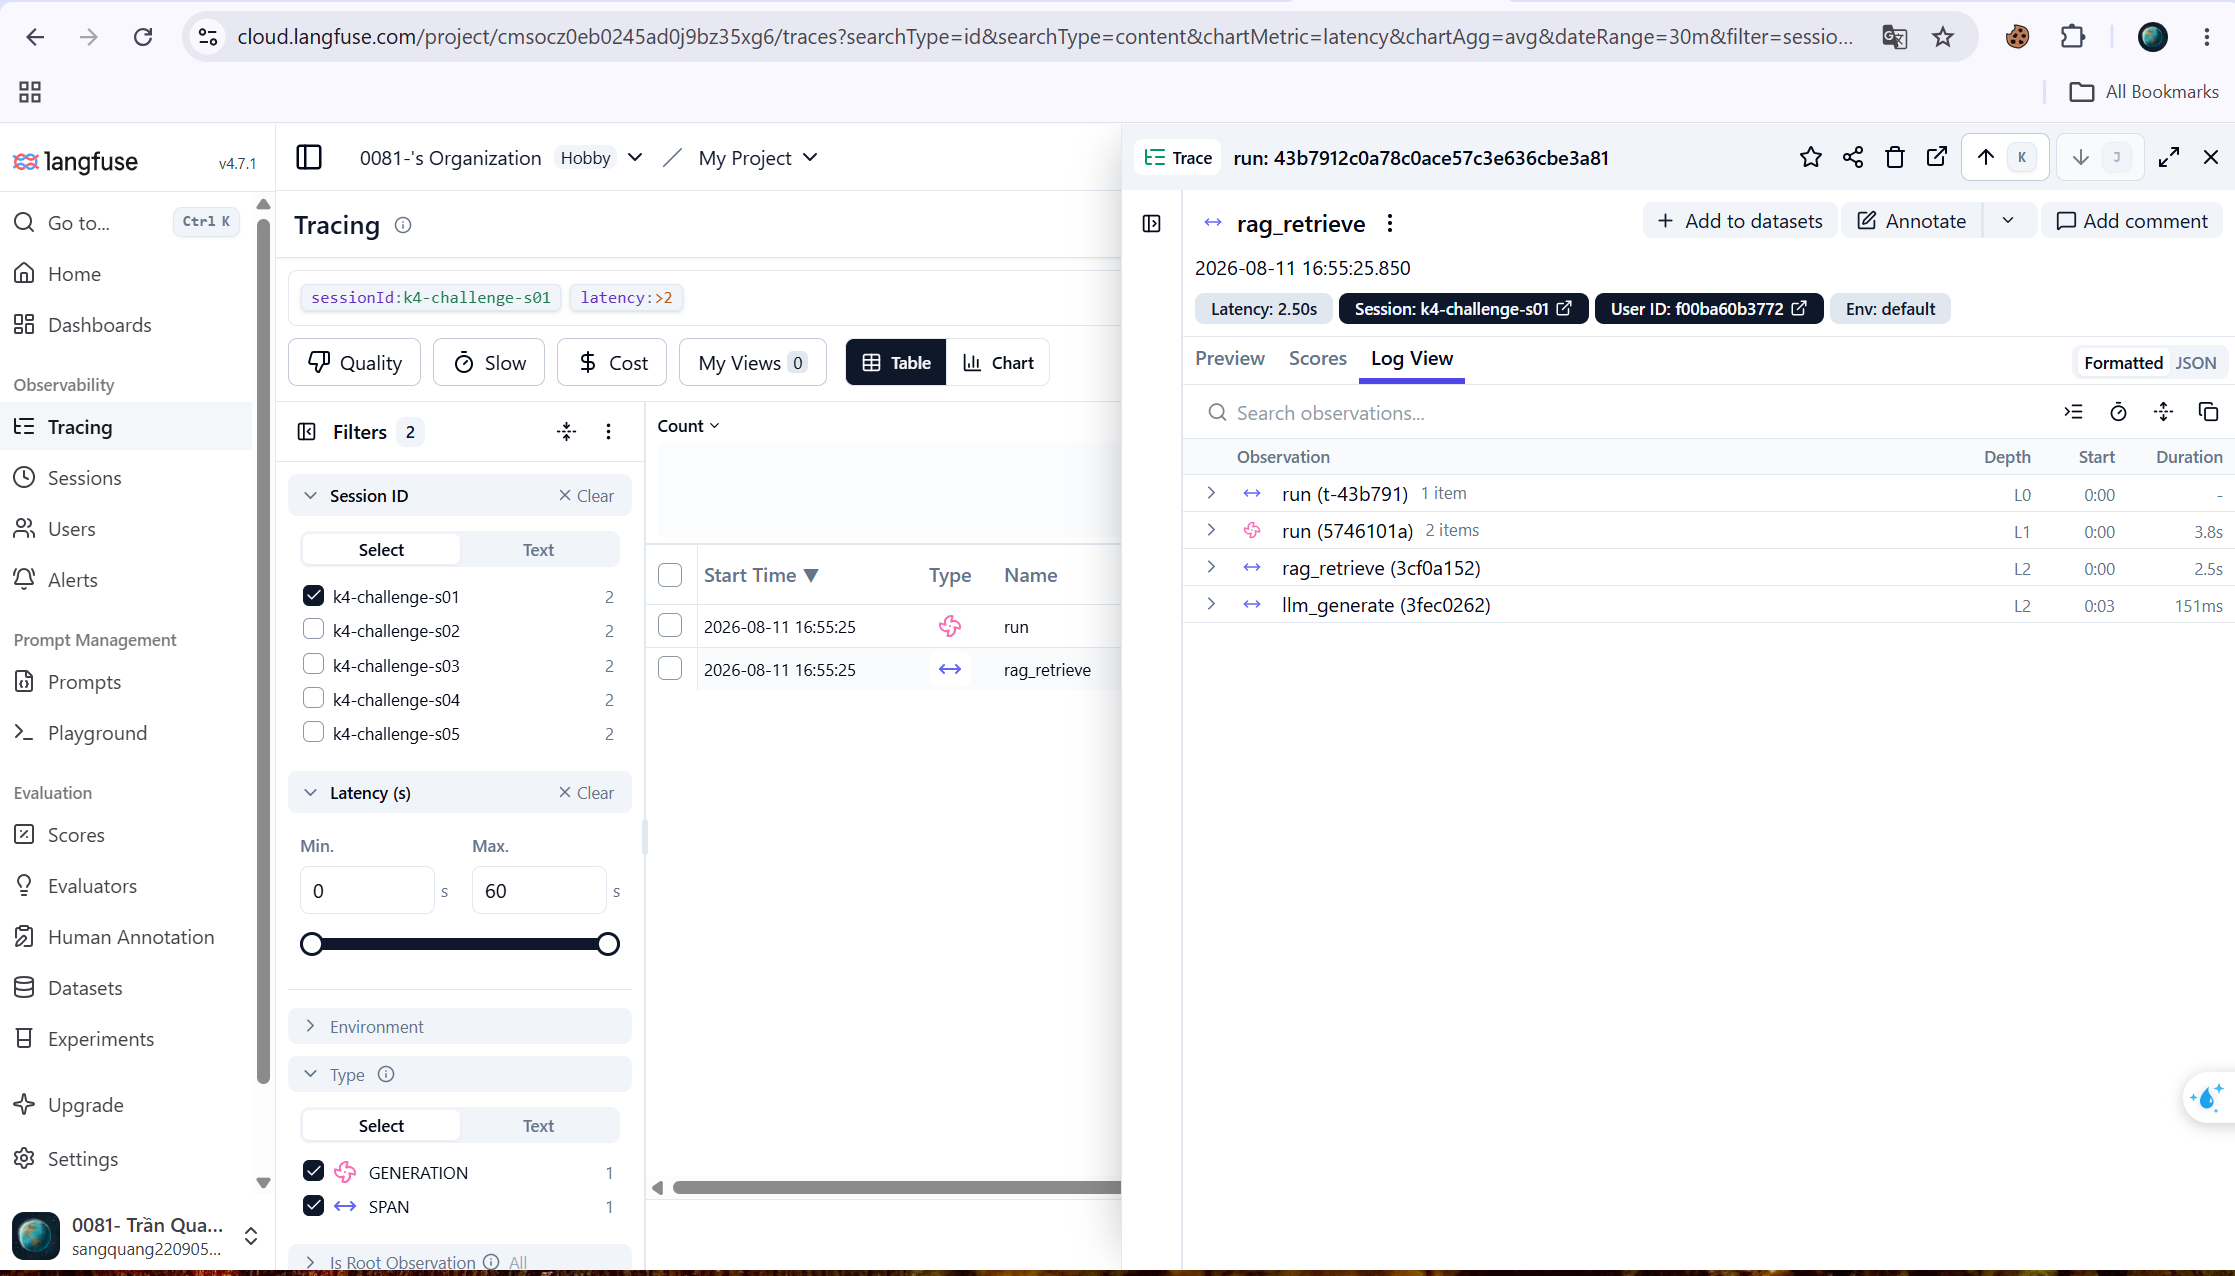
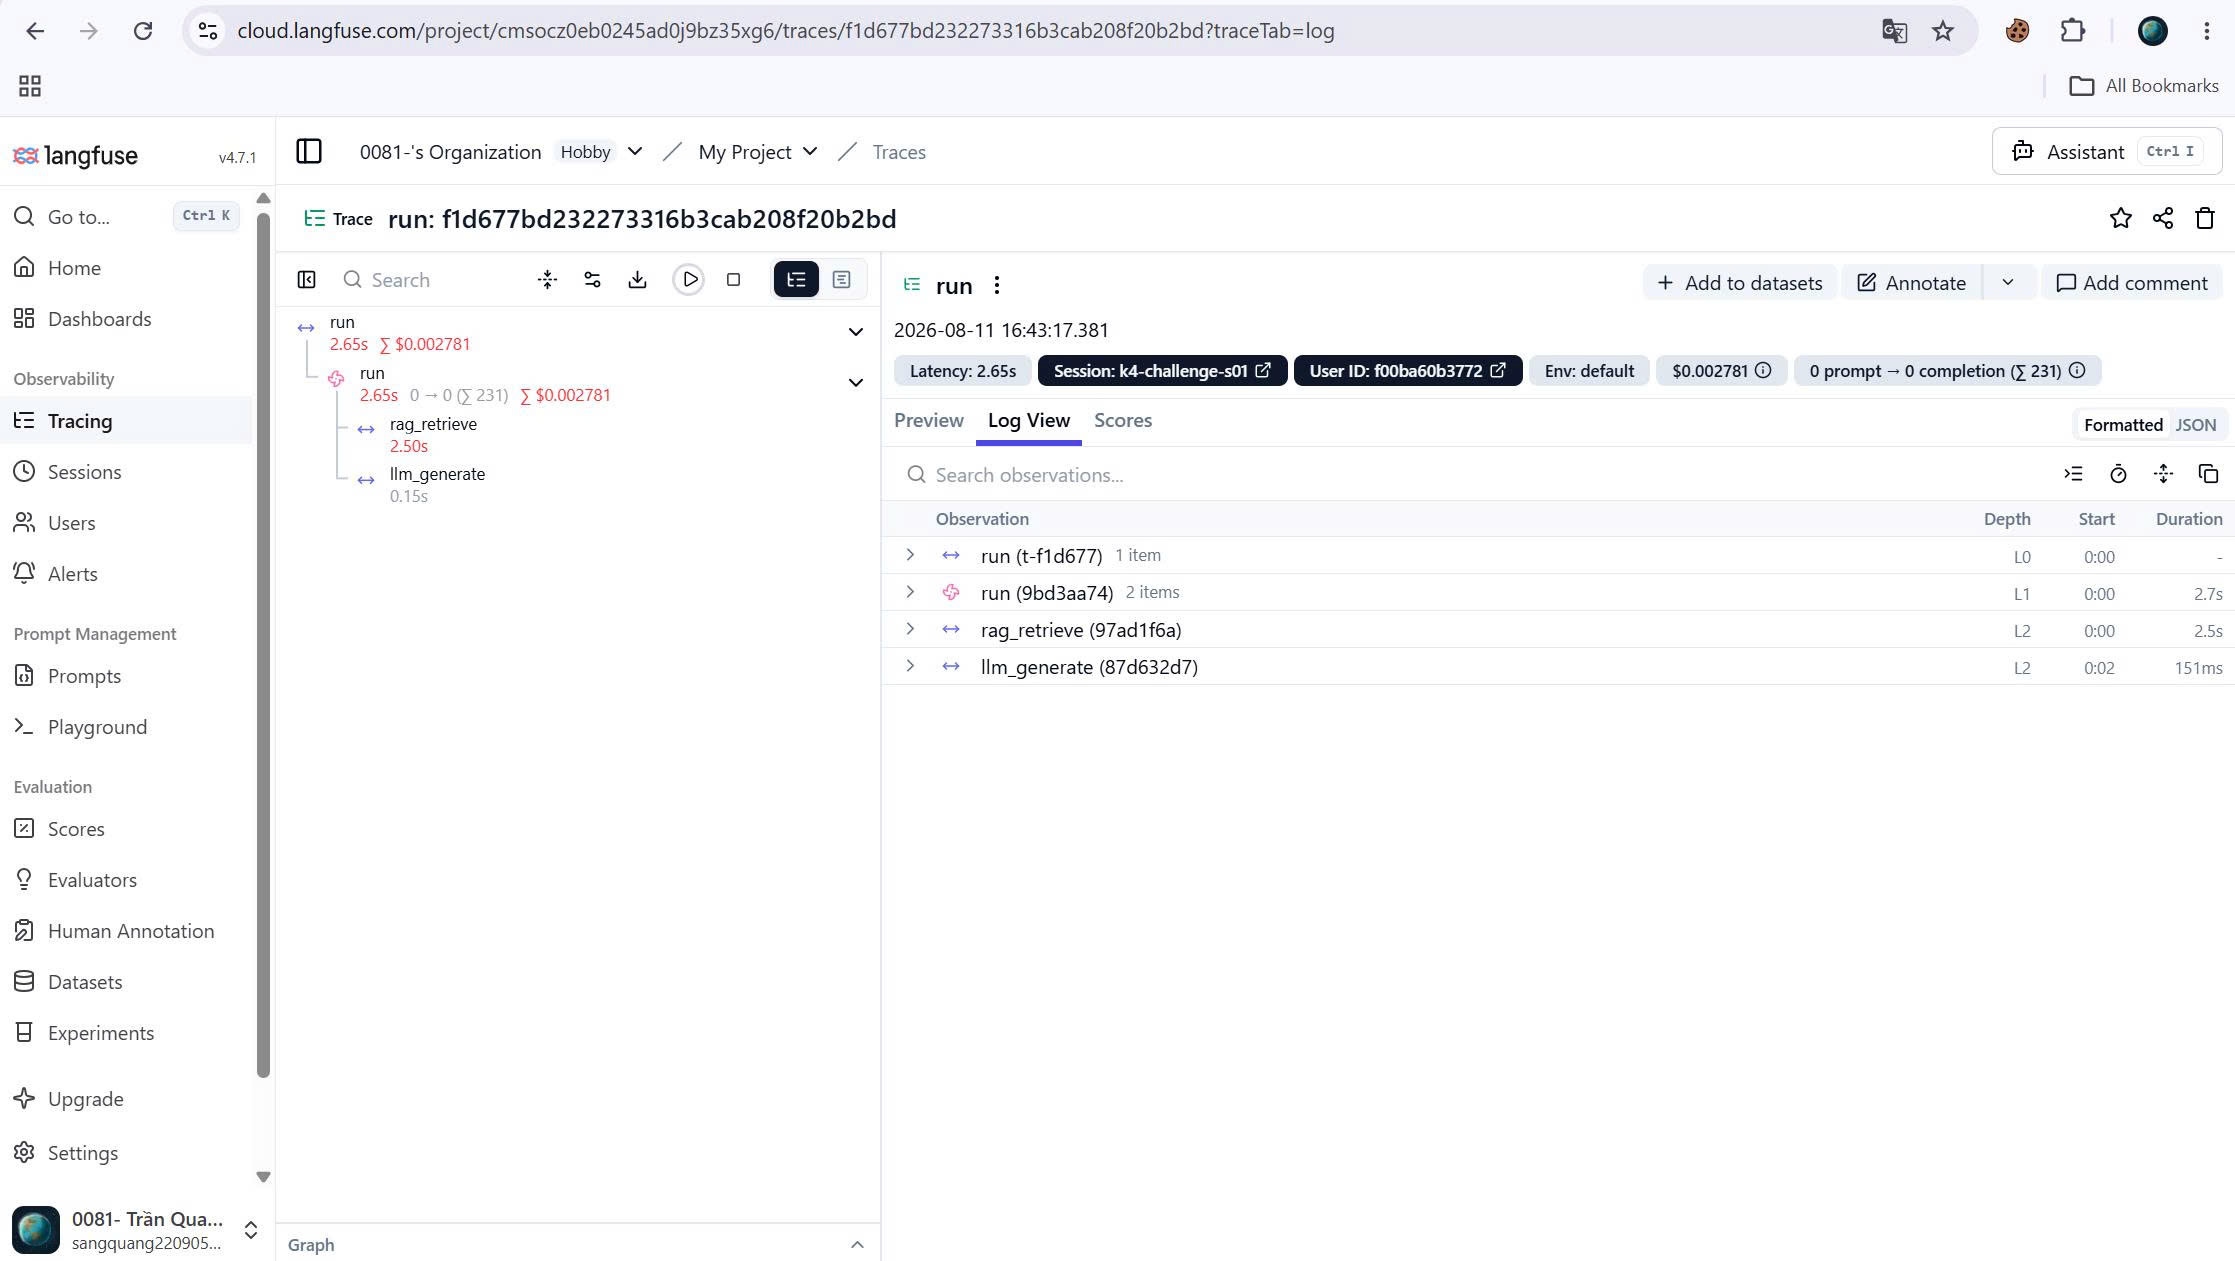
OBS-42: point the trace evidence back at the run the metrics and logs came from
Two challenge runs existed - mine at 16:43:17 (run 2652ms) and a later one at 16:55:25 (run 3774ms) - both under session k4-challenge-s01. Section 6 had cited the 16:55 trace while its metrics table and log evidence came from the 16:43 run, so the three layers no longer described one request, and the 3774ms figure also contradicted the argument that latency stayed under the 3000ms dashboard threshold. Screenshot and text now both use f1d677bd: run 2652ms, rag_retrieve 2501ms (94 percent), llm_generate 151ms, matching req-719b7dfe in 10-challenge-logs.txt.

diff --git a/submission/REPORT.md b/submission/REPORT.md
@@ -140,21 +140,25 @@ khi app tự ghi `latency_ms = 2652 ms`. Chênh lệch không phải do đo sai 
 song song (5 × 2,65s ≈ 13,3s). `latency_ms` là thời gian app xử lý một request; con số client
 thấy còn cộng thêm thời gian chờ hàng đợi. Người dùng cuối chịu con số 13,3s.
 
-**Trace ID liên quan:** `43b7912c0a78c0ace57c3e636cbe3a81` (session `k4-challenge-s01`,
-tags `lab, monitoring, deepseek-v4-pro`). Phân rã span:
+**Trace ID liên quan:** `f1d677bd232273316b3cab208f20b2bd` (session `k4-challenge-s01`,
+user `f00ba60b3772`, lúc 16:43:17, cost $0.002781, tags `lab, monitoring, deepseek-v4-pro`) —
+ảnh `submission/evidence/09-challenge-trace.png`. Phân rã span:
 
 | Observation | Type | Thời lượng | Tỷ trọng |
 |---|---|---:|---:|
-| `run` | GENERATION | 3.8 s | 100% |
-| **`rag_retrieve`** | SPAN | **2.50 s** | **66%** |
-| `llm_generate` | SPAN | 151 ms | 4% |
+| `run` | GENERATION | 2652 ms | 100% |
+| **`rag_retrieve`** | SPAN | **2501 ms** | **94%** |
+| `llm_generate` | SPAN | 151 ms | 6% |
 
 **Log line / correlation ID liên quan:** `req-719b7dfe` (session `k4-challenge-s01`,
 `user_id_hash` `f00ba60b3772`) — trích nguyên văn trong
 `submission/evidence/10-challenge-logs.txt`, gồm cặp `request_received` / `response_sent` với
 `latency_ms: 2652`, `tokens_in: 57`, `tokens_out: 174`, `cost_usd: 0.002781`, `quality_score: 0.8`.
-Ba lớp khớp nhau: metric (p95 2652ms) → trace (`rag_retrieve` 2.50s) → log (đúng correlation ID
-của request đó).
+
+Ba lớp chỉ về **cùng một request duy nhất**, không phải ba mẫu rời ghép lại: metric p95 2652 ms
+= `latency_ms` trong log = thời lượng span `run` trong trace; `session_id` `k4-challenge-s01`,
+`user_id_hash` `f00ba60b3772` và `cost_usd 0.002781` trùng khớp giữa log và trace. Đây là điều
+kiện để kết luận được tính, theo `RULES.md`.
 
 **Root cause:** tầng **retrieval** chặn ~2,5 giây trước khi trả tài liệu. Trong lab, `rag_slow`
 làm `mock_rag.retrieve()` gọi `time.sleep(2.5)` trước khi trả về (`app/mock_rag.py:17`).
